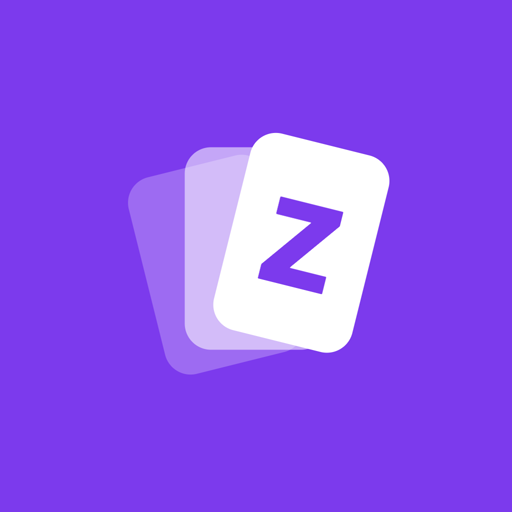
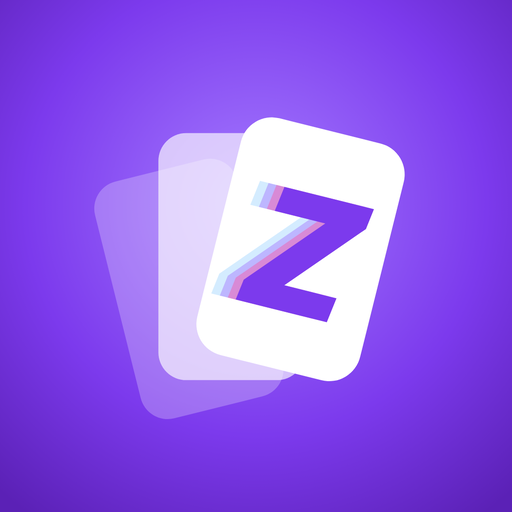
Passer boostz.fr à la nouvelle icône de BoostZ
La nouvelle icône validée le 31/10/2026 (éventail de cartes agrandi, fond
violet à halo, Z violet uni et ses trois Z fantômes), tirée du dépôt
boostz-communication (images/icone-reseaux/finale/) : icône d'accueil
d'iPhone (180), logo schema.org (512), icône de la section de sortie, de
/beta et du parrainage (256, depuis la version 1024).

Le favicon des 16 pages était un autre dessin (assets/favicon.svg, un Z en
dégradé) : il devient favicon-32.png et favicon-192.png. Pas de SVG, le Z
étant en police Outfit, qu'un favicon SVG ne rendrait pas. L'ancien
fichier reste en place, plus aucune page ne l'appelle. Le texte
alternatif de l'icône dit « BoostZ ».

Claude-Session: https://claude.ai/code/session_01ArpzXiSvk4MGTZcoyHGzrP

diff --git a/parrainage.html b/parrainage.html
@@ -9,7 +9,8 @@
 <meta name="description" content="Un ami t'invite sur BoostZ, l'appli pour gérer ta collection de cartes : son code te rapporte 150 Boosties.">
 <!-- Une page par code : rien à indexer. -->
 <meta name="robots" content="noindex">
-<link rel="icon" href="/assets/favicon.svg" type="image/svg+xml">
+<link rel="icon" href="/assets/favicon-32.png" type="image/png" sizes="32x32">
+<link rel="icon" href="/assets/favicon-192.png" type="image/png" sizes="192x192">
 <link rel="apple-touch-icon" href="/assets/vitrine/icone-app-180.png">
 <link rel="preload" href="/assets/fonts/outfit-800.woff2" as="font" type="font/woff2" crossorigin>
 <link rel="preload" href="/assets/fonts/exo-var.woff2" as="font" type="font/woff2" crossorigin>
@@ -76,7 +77,7 @@
 <!-- Avec un code valide dans l'adresse. Caché tant que le script ne l'a pas
      lu : sans script, c'est le bloc suivant qui reste. -->
 <section class="pr-hero" id="avec-code" aria-labelledby="titre" hidden>
-  <div class="pr-icon"><img src="/assets/vitrine/icone-app.png" alt="Icône de l'application BoostZ"></div>
+  <div class="pr-icon"><img src="/assets/vitrine/icone-app.png" alt="BoostZ"></div>
   <h1 id="titre" class="h pr-title">Un ami t'invite<br><span class="acc">sur BoostZ.</span></h1>
   <p class="p pr-lead">L'appli pour gérer ta collection de cartes. Son code te rapporte <b>150&nbsp;Boosties</b> à saisir dans les 7&nbsp;jours qui suivent ton inscription.</p>
   <div class="pr-code">
@@ -90,7 +91,7 @@
 </section>
 
 <section class="pr-hero" id="sans-code" aria-labelledby="titre-sans">
-  <div class="pr-icon"><img src="/assets/vitrine/icone-app.png" alt="Icône de l'application BoostZ"></div>
+  <div class="pr-icon"><img src="/assets/vitrine/icone-app.png" alt="BoostZ"></div>
   <h1 id="titre-sans" class="h pr-title">Ce lien de parrainage<br><span class="acc">est incomplet.</span></h1>
   <p class="p pr-lead">Demande à ton ami de te renvoyer son code&nbsp;: tu le saisiras dans l'appli, <b>Profil › Parrainage</b>.</p>
   <div class="pr-actions">

diff --git a/index.html b/index.html
@@ -9,7 +9,8 @@
 <meta name="robots" content="index, follow, max-image-preview:large">
 <meta name="theme-color" content="#0B0812">
 <meta name="color-scheme" content="dark">
-<link rel="icon" href="assets/favicon.svg" type="image/svg+xml">
+<link rel="icon" href="assets/favicon-32.png" type="image/png" sizes="32x32">
+<link rel="icon" href="assets/favicon-192.png" type="image/png" sizes="192x192">
 <link rel="apple-touch-icon" href="/assets/vitrine/icone-app-180.png">
 <link rel="alternate" hreflang="fr" href="https://boostz.fr/">
 <link rel="alternate" hreflang="x-default" href="https://boostz.fr/">
@@ -435,7 +436,7 @@
 
 <!-- La sortie -->
 <section id="lancement" class="in sortie" aria-labelledby="sortie">
-<div data-a="pop" style="display:inline-block;width:110px;height:110px;border-radius:28px;border:4px solid #F5F2FB;box-shadow:8px 8px 0 #05040A;overflow:hidden;transform:rotate(-4deg)"><img loading="lazy" decoding="async" src="assets/vitrine/icone-app.png" alt="Icône de l'application Boostz" style="display:block;width:100%;height:100%"></div>
+<div data-a="pop" style="display:inline-block;width:110px;height:110px;border-radius:28px;border:4px solid #F5F2FB;box-shadow:8px 8px 0 #05040A;overflow:hidden;transform:rotate(-4deg)"><img loading="lazy" decoding="async" src="assets/vitrine/icone-app.png" alt="BoostZ" style="display:block;width:100%;height:100%"></div>
 <h2 id="sortie" data-a class="h t3" style="margin-top:26px">Boostz sort le<br><span class="acc">14&nbsp;janvier 2027</span></h2>
 <div data-a style="display:flex;flex-wrap:wrap;justify-content:center;gap:12px;margin-top:26px">
 <!-- Ni logo ni badge des stores avant la sortie (20/10/2026). -->

diff --git a/beta/index.html b/beta/index.html
@@ -10,7 +10,8 @@
 <!-- La bêta s'arrête à la sortie : pas de résultat de recherche qui y mène
      encore après. On y arrive par les liens qu'on partage. -->
 <meta name="robots" content="noindex">
-<link rel="icon" href="/assets/favicon.svg" type="image/svg+xml">
+<link rel="icon" href="/assets/favicon-32.png" type="image/png" sizes="32x32">
+<link rel="icon" href="/assets/favicon-192.png" type="image/png" sizes="192x192">
 <link rel="apple-touch-icon" href="/assets/vitrine/icone-app-180.png">
 <link rel="preload" href="/assets/fonts/outfit-800.woff2" as="font" type="font/woff2" crossorigin>
 <link rel="preload" href="/assets/fonts/exo-var.woff2" as="font" type="font/woff2" crossorigin>
@@ -150,7 +151,7 @@
 <div class="bt">
 
 <section class="bt-hero" aria-labelledby="titre">
-  <div class="bt-icon"><img src="/assets/vitrine/icone-app.png" alt="Icône de l'application BoostZ"><span class="bt-tag">BÊTA</span></div>
+  <div class="bt-icon"><img src="/assets/vitrine/icone-app.png" alt="BoostZ"><span class="bt-tag">BÊTA</span></div>
   <h1 id="titre" class="h bt-title">Teste BoostZ <br><span class="acc">avant sa sortie.</span></h1>
   <p class="p bt-lead">BoostZ sort le 14&nbsp;janvier 2027. D'ici là, choisis ton téléphone&nbsp;: la bêta est ouverte sur Android, et elle arrive sur iPhone le 14&nbsp;novembre. Ton compte est le même sur les deux&nbsp;: même collection, mêmes Boosties, même Pass.</p>
 </section>

diff --git a/cgu.html b/cgu.html
@@ -10,7 +10,8 @@
 <meta name="theme-color" content="#08070B">
 <title>Conditions générales d'utilisation — BoostZ</title>
 <meta name="description" content="Conditions générales d'utilisation de l'application BoostZ et du site boostz.fr.">
-<link rel="icon" href="assets/favicon.svg" type="image/svg+xml">
+<link rel="icon" href="assets/favicon-32.png" type="image/png" sizes="32x32">
+<link rel="icon" href="assets/favicon-192.png" type="image/png" sizes="192x192">
 <link rel="stylesheet" href="assets/site.css">
 <link rel="stylesheet" href="assets/legal.css">
 </head>

diff --git a/conditions-boutiques.html b/conditions-boutiques.html
@@ -10,7 +10,8 @@
 <meta name="theme-color" content="#08070B">
 <title>Conditions des boutiques partenaires — BoostZ</title>
 <meta name="description" content="Conditions des boutiques partenaires de l'application BoostZ et du site boostz.fr.">
-<link rel="icon" href="assets/favicon.svg" type="image/svg+xml">
+<link rel="icon" href="assets/favicon-32.png" type="image/png" sizes="32x32">
+<link rel="icon" href="assets/favicon-192.png" type="image/png" sizes="192x192">
 <link rel="stylesheet" href="assets/site.css">
 <link rel="stylesheet" href="assets/legal.css">
 </head>

diff --git a/support.html b/support.html
@@ -9,7 +9,8 @@
 <meta name="theme-color" content="#08070B">
 <title>Contacter le support — boostZ</title>
 <meta name="description" content="Ouvre une demande au support boostZ et suis les réponses.">
-<link rel="icon" href="assets/favicon.svg" type="image/svg+xml">
+<link rel="icon" href="assets/favicon-32.png" type="image/png" sizes="32x32">
+<link rel="icon" href="assets/favicon-192.png" type="image/png" sizes="192x192">
 <link rel="stylesheet" href="assets/site.css">
 <style>
   .tk-list { display: flex; flex-direction: column; gap: 7px; margin-top: 12px; }

diff --git a/cgv.html b/cgv.html
@@ -10,7 +10,8 @@
 <meta name="theme-color" content="#08070B">
 <title>Conditions générales de vente — BoostZ</title>
 <meta name="description" content="Conditions générales de vente de l'application BoostZ et du site boostz.fr.">
-<link rel="icon" href="assets/favicon.svg" type="image/svg+xml">
+<link rel="icon" href="assets/favicon-32.png" type="image/png" sizes="32x32">
+<link rel="icon" href="assets/favicon-192.png" type="image/png" sizes="192x192">
 <link rel="stylesheet" href="assets/site.css">
 <link rel="stylesheet" href="assets/legal.css">
 </head>

diff --git a/confidentialite.html b/confidentialite.html
@@ -10,7 +10,8 @@
 <meta name="theme-color" content="#08070B">
 <title>Politique de confidentialité — BoostZ</title>
 <meta name="description" content="Politique de confidentialité de l'application BoostZ et du site boostz.fr.">
-<link rel="icon" href="assets/favicon.svg" type="image/svg+xml">
+<link rel="icon" href="assets/favicon-32.png" type="image/png" sizes="32x32">
+<link rel="icon" href="assets/favicon-192.png" type="image/png" sizes="192x192">
 <link rel="stylesheet" href="assets/site.css">
 <link rel="stylesheet" href="assets/legal.css">
 </head>

diff --git a/connexion.html b/connexion.html
@@ -10,7 +10,8 @@
 <title>Connexion — boostZ</title>
 <meta name="description" content="Connecte-toi à ton compte boostZ pour contacter le support ou gérer ton compte.">
 <meta name="robots" content="noindex">
-<link rel="icon" href="assets/favicon.svg" type="image/svg+xml">
+<link rel="icon" href="assets/favicon-32.png" type="image/png" sizes="32x32">
+<link rel="icon" href="assets/favicon-192.png" type="image/png" sizes="192x192">
 <link rel="stylesheet" href="assets/site.css">
 <style>
   body { display: flex; flex-direction: column; background-image:

diff --git a/traceurs.html b/traceurs.html
@@ -10,7 +10,8 @@
 <meta name="theme-color" content="#08070B">
 <title>Cookies et autres traceurs — BoostZ</title>
 <meta name="description" content="Cookies et autres traceurs de l'application BoostZ et du site boostz.fr.">
-<link rel="icon" href="assets/favicon.svg" type="image/svg+xml">
+<link rel="icon" href="assets/favicon-32.png" type="image/png" sizes="32x32">
+<link rel="icon" href="assets/favicon-192.png" type="image/png" sizes="192x192">
 <link rel="stylesheet" href="assets/site.css">
 <link rel="stylesheet" href="assets/legal.css">
 </head>

diff --git a/telecharger/index.html b/telecharger/index.html
@@ -23,7 +23,8 @@
      immédiat, et le lien en clair si le navigateur ne le suit pas. -->
 <meta http-equiv="refresh" content="0; url=/beta/">
 <link rel="canonical" href="https://boostz.fr/beta/">
-<link rel="icon" href="/assets/favicon.svg" type="image/svg+xml">
+<link rel="icon" href="/assets/favicon-32.png" type="image/png" sizes="32x32">
+<link rel="icon" href="/assets/favicon-192.png" type="image/png" sizes="192x192">
 <link rel="stylesheet" href="/assets/site.css">
 <link rel="stylesheet" href="/assets/vitrine.css?v=2026-10-20b">
 </head>

diff --git a/admin.html b/admin.html
@@ -12,7 +12,8 @@
      mais tout ce qu'on y voit vient de l'API, qui ne répond qu'à un compte admin.
      Le noindex ne protège rien : il évite de mettre une porte en vitrine. -->
 <meta name="robots" content="noindex, nofollow">
-<link rel="icon" href="assets/favicon.svg" type="image/svg+xml">
+<link rel="icon" href="assets/favicon-32.png" type="image/png" sizes="32x32">
+<link rel="icon" href="assets/favicon-192.png" type="image/png" sizes="192x192">
 <link rel="stylesheet" href="assets/site.css">
 <style>
   body { background-image:
